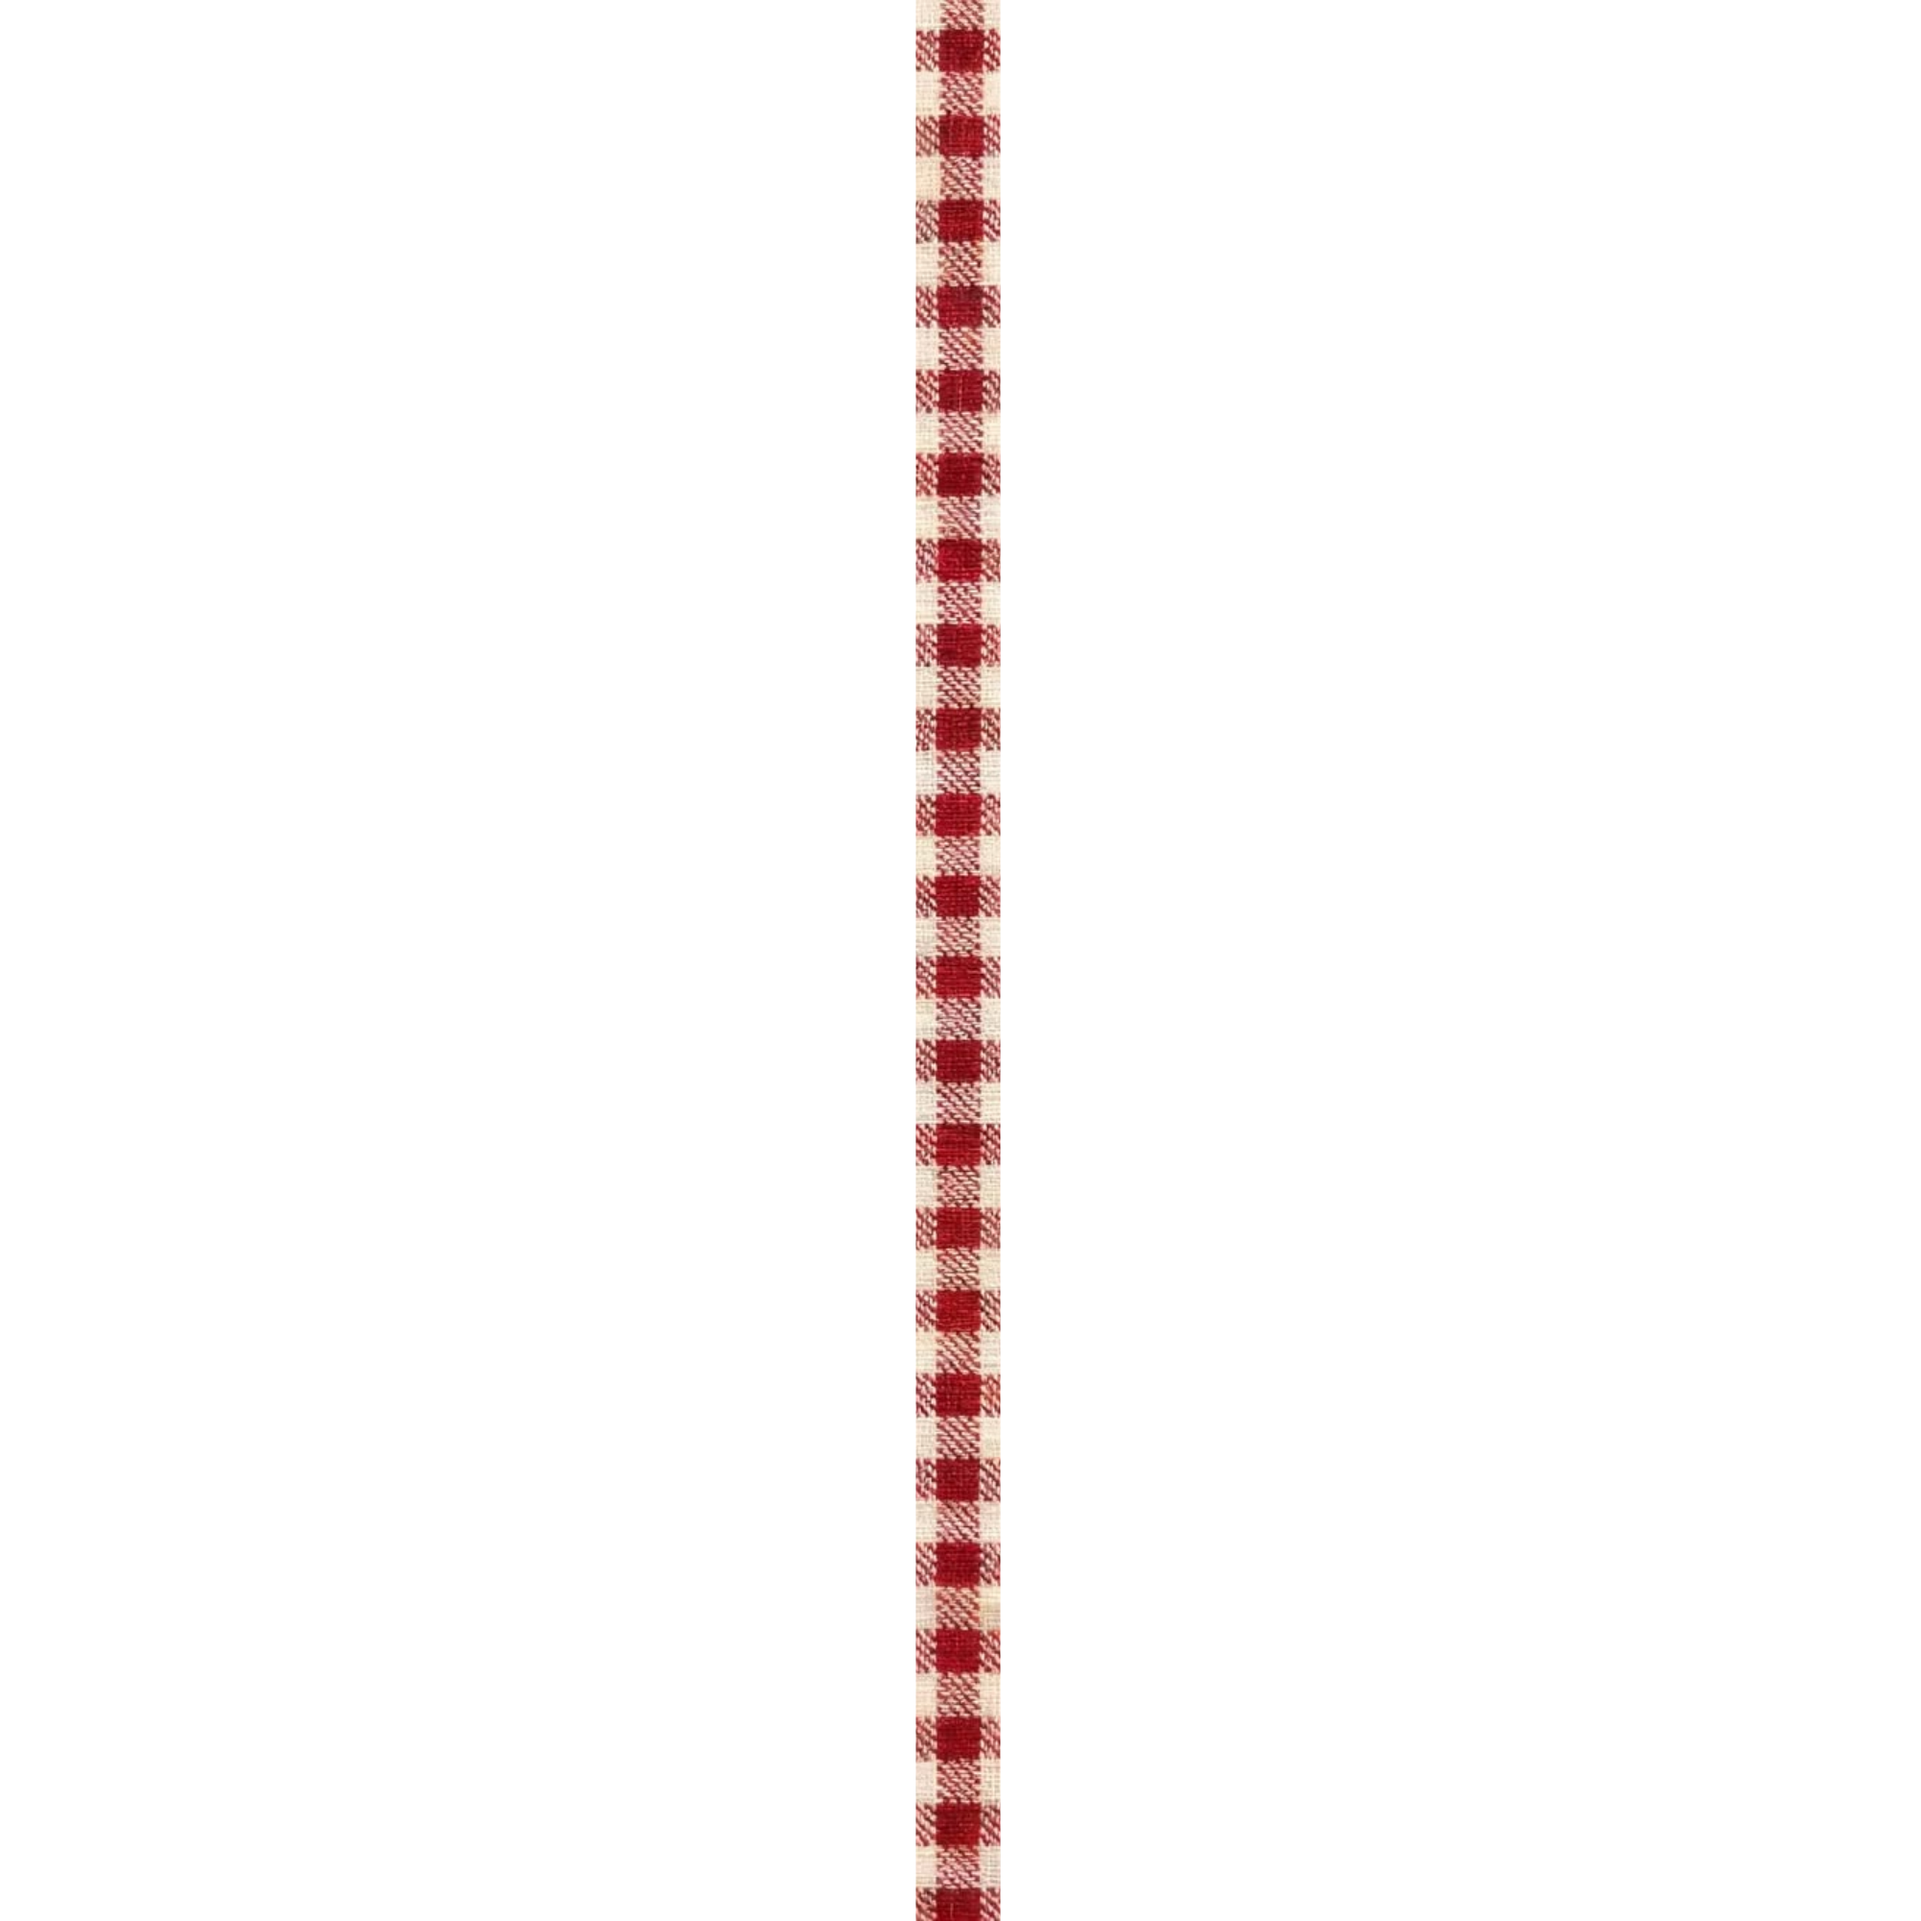
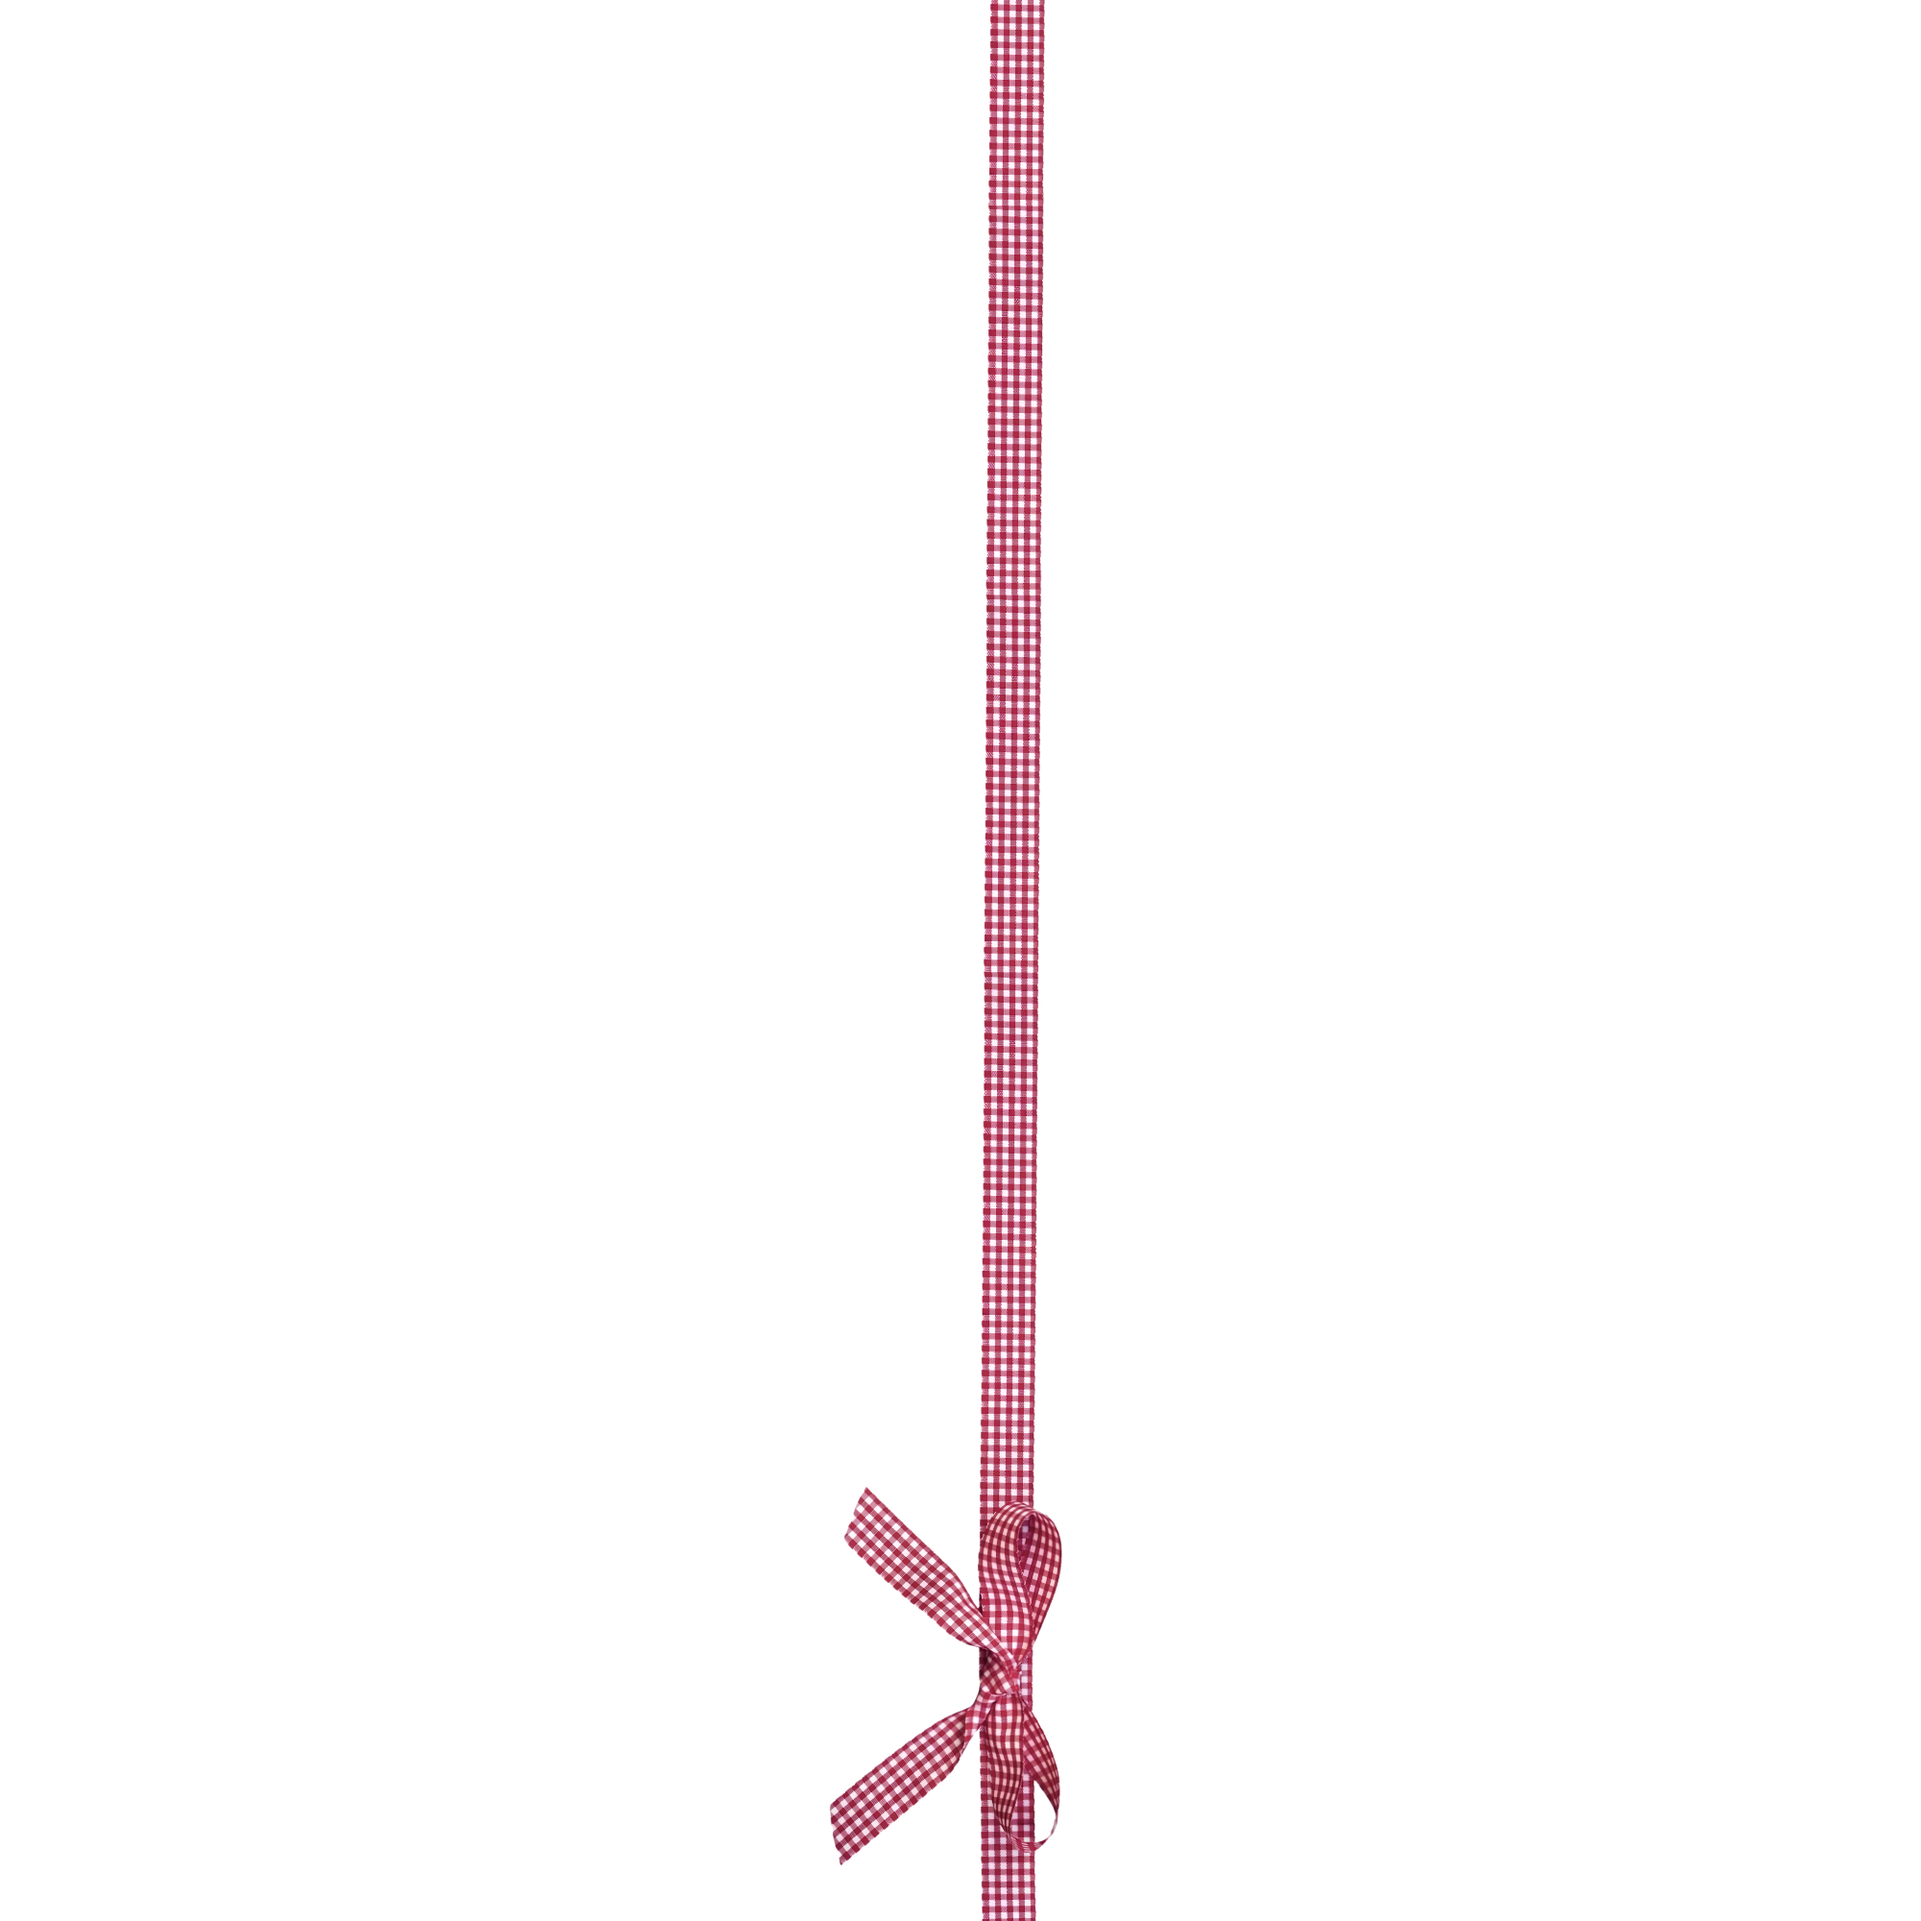
troquei o fundo da area da galeria no home

Changed region(s): [[0.434, 0.0, 0.558, 1.0]]

diff --git a/style.css b/style.css
@@ -676,7 +676,7 @@ nav a img:hover {
     width: 1501px;
     margin-left: -8px;
     margin-top: 1387px;
-    transform: rotate(90deg);
+    transform: rotate(-90deg);
 }
 .modal-overlay {
     position: fixed;
